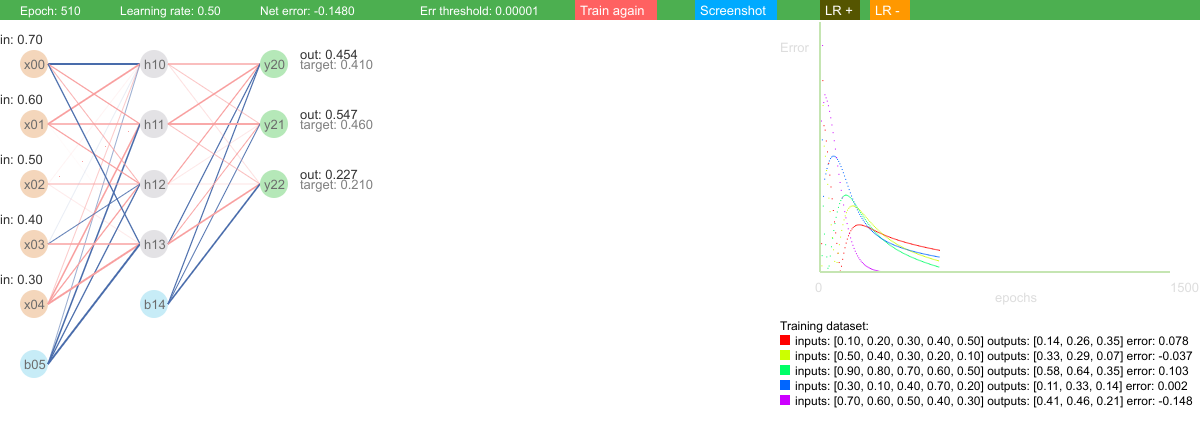
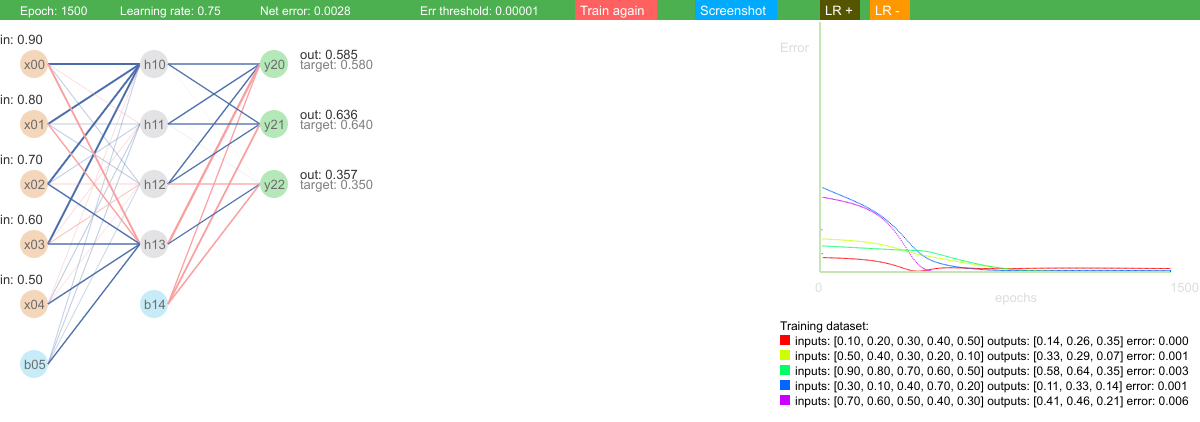
feat(Perceptron) Bugfixing. Regression test added.

diff --git a/tests.js b/tests.js
@@ -23,6 +23,7 @@ function runTests() {
         logResult("Test 7: ForwardPass. TANH", testForwardPassTanh());
         logResult("Test 8: Backpropagation", testBackPropagationComplex());
         logResult("Test 9: Benchmark", testMultiInputOutputBenchmark());
+        logResult("Test 9: Regression", testRegression());
     } catch (error) {
         console.error(error);
         const resultContainer = document.getElementById("test-results");
@@ -91,7 +92,7 @@ function testForwardPassSigmoid() {
     const perceptron = new Perceptron(0.1, 0.001);
 
     perceptron.createLayers([
-        { size: 2 },
+        { size: 2, activation: Cell.LINEAR },
         { size: 1, activation: Cell.SIGMOID }
     ], false);
 
@@ -122,7 +123,7 @@ function testForwardPassRELU() {
     const perceptron = new Perceptron(0.1, 0.001);
 
     perceptron.createLayers([
-        { size: 2 },
+        { size: 2, activation: Cell.LINEAR },
         { size: 1, activation: Cell.RELU }
     ], false);
 
@@ -153,7 +154,7 @@ function testForwardPassLeakyRELU() {
     const perceptron = new Perceptron(0.1, 0.001);
 
     perceptron.createLayers([
-        { size: 2 },
+        { size: 2, activation: Cell.LINEAR },
         { size: 1, activation: Cell.LEAKYRELU }
     ], false);
 
@@ -183,7 +184,7 @@ function testForwardPassTanh() {
     const perceptron = new Perceptron(0.1, 0.001);
 
     perceptron.createLayers([
-        { size: 2 },
+        { size: 2, activation: Cell.LINEAR },
         { size: 1, activation: Cell.TANH }
     ], false);
 
@@ -213,7 +214,7 @@ function testBackPropagationComplex() {
     const perceptron = new Perceptron(0.1, 0.001);
 
     perceptron.createLayers([
-        { size: 3, activation: Cell.SIGMOID },
+        { size: 3, activation: Cell.LINEAR },
         { size: 2, activation: Cell.SIGMOID },
         { size: 1, activation: Cell.LINEAR }
     ], false);
@@ -252,7 +253,7 @@ function testBackPropagationComplex() {
 function testMultiInputOutputBenchmark() {
     console.log("Starting benchmark test with 5 inputs and 3 outputs...");
 
-    // 1. Создание тренировочных данных
+    // 1. Train data
     const trainingData = [
         { inputs: [0.1, 0.2, 0.3, 0.4, 0.5], outputs: [0.14, 0.26, 0.35] },
         { inputs: [0.5, 0.4, 0.3, 0.2, 0.1], outputs: [0.33, 0.29, 0.07] },
@@ -261,17 +262,17 @@ function testMultiInputOutputBenchmark() {
         { inputs: [0.7, 0.6, 0.5, 0.4, 0.3], outputs: [0.41, 0.46, 0.21] }
     ];
 
-    // 2. Настройка сети
+    // 2. Neural Network setup
     const perceptron = new Perceptron(0.1, 0.00001);
     perceptron.createLayers([
-        { size: 5, activation: Cell.SIGMOID },  // Входной слой
-        { size: 9, activation: Cell.SIGMOID },  // Скрытый слой
-        { size: 3, activation: Cell.LINEAR }    // Выходной слой
+        { size: 5, activation: Cell.LINEAR },  // Input layer
+        { size: 9, activation: Cell.SIGMOID },  // Hidden layer
+        { size: 3, activation: Cell.LINEAR }    // Output layer
     ]);
 
-    // 3. Обучение сети
+    // 3. Training
     console.log("Training...");
-    const epochs = 1400;
+    const epochs = 1000;
     for (let epoch = 0; epoch < epochs; epoch++) {
         for (let data of trainingData) {
             perceptron.setInputVector(data.inputs);
@@ -285,7 +286,7 @@ function testMultiInputOutputBenchmark() {
         }
     }
 
-    // 4. Тестирование сети
+    // 4. Testing
     console.log("\nTesting...");
     let allPassed = true;
     for (let data of trainingData) {
@@ -297,7 +298,7 @@ function testMultiInputOutputBenchmark() {
         console.log(`Output: ${outputs.map(o => o.toFixed(3))}`);
         console.log(`Expected: ${data.outputs}`);
 
-        // Проверка точности
+        // Accuracy checking
         const isCloseEnough = outputs.every((output, index) =>
             Math.abs(output - data.outputs[index]) < 0.05
         );
@@ -318,6 +319,80 @@ function testMultiInputOutputBenchmark() {
         return false;
     }
 }
+
+function testRegression() {
+    console.log("Starting regression test with normalized data...");
+
+    // Normalized training data (inputs scaled to [0, 1], targets scaled to [0, 1])
+    const trainingData = [
+        {input: [0], target: [0]},         // input: 0, target: 1
+        {input: [0.25], target: [0.25]},  // input: 1, target: 3
+        {input: [0.5], target: [0.5]},    // input: 2, target: 5
+        {input: [0.75], target: [0.75]},  // input: 3, target: 7
+        {input: [1], target: [1]}         // input: 4, target: 9
+    ];
+
+    // Create perceptron
+    const perceptron = new Perceptron(0.1, 0.0001);
+    perceptron.createLayers([
+        {size: 1, activation: Cell.LINEAR},  // Input layer
+        {size: 3, activation: Cell.RELU},   // Hidden layer
+        {size: 1, activation: Cell.LINEAR}  // Output layer
+    ]);
+
+    // Training
+    console.log("Training...");
+    const epochs = 200;
+    for (let epoch = 0; epoch < epochs; epoch++) {
+        for (let data of trainingData) {
+            perceptron.setInputVector(data.input);
+            perceptron.setOutputVector(data.target);
+            perceptron.forwardPass();
+            perceptron.backPropagation();
+        }
+
+        if (epoch % 100 === 0 || epoch === epochs - 1) {
+            console.log(`Epoch: ${epoch}, Net Error: ${perceptron.getNetError().toFixed(7)}`);
+        }
+    }
+
+    // Testing
+    console.log("\nTesting regression results...");
+    const testData = [
+        {input: [0.125], expected: [0.125]}, // input: 0.5, target: 2.5
+        {input: [0.375], expected: [0.375]}, // input: 1.5, target: 4.5
+        {input: [0.625], expected: [0.625]}, // input: 2.5, target: 6.5
+        {input: [0.875], expected: [0.875]}  // input: 3.5, target: 8.5
+    ];
+
+    let allPassed = true;
+    for (let data of testData) {
+        perceptron.setInputVector(data.input);
+        perceptron.forwardPass();
+        const output = perceptron.getOutputVector();
+
+        console.log(`Input: ${data.input}`);
+        console.log(`Output: ${output.map(o => o.toFixed(3))}`);
+        console.log(`Expected: ${data.expected}`);
+
+        const isCloseEnough = Math.abs(output[0] - data.expected[0]) < 0.05;
+        if (!isCloseEnough) {
+            allPassed = false;
+            console.warn(`Test failed for input: ${data.input}`);
+        } else {
+            console.info(`Test successful for input: ${data.input}`);
+        }
+    }
+
+    if (allPassed) {
+        console.log("Regression test with normalized data passed!");
+        return true;
+    } else {
+        console.error("Regression test with normalized data failed.");
+        return false;
+    }
+}
+
 
 
 window.onload = runTests;

diff --git a/main.js b/main.js
@@ -50,7 +50,7 @@ function restart() {
     perceptron = new Perceptron(learningRate, 0.00001);
 
     perceptron.createLayers([
-        { size: 5, activation: Cell.SIGMOID },
+        { size: 5, activation: Cell.LINEAR },
         { size: 4, activation: Cell.SIGMOID },
         { size: 3, activation: Cell.LINEAR },
     ]);
@@ -193,7 +193,7 @@ function drawBackground() {
 
     ctx.fillStyle = "white";
     ctx.fillText(`Epoch: ${perceptron.getEpoch()}`, 20, 15);
-    ctx.fillText(`Learning rate: ${perceptron.getLearningRate().toFixed(2)}`, 120, 15); // Отображаем изменённое значение
+    ctx.fillText(`Learning rate: ${perceptron.getLearningRate().toFixed(2)}`, 120, 15);
     ctx.fillText(`Net error: ${perceptron.getNetError().toFixed(4)}`, 260, 15);
     ctx.fillText(`Err threshold: ${perceptron.getErrorTrashold()}`, 420, 15);
 
@@ -215,7 +215,7 @@ function drawGraph(perceptron, color) {
         ctx.fillStyle = color;
         ctx.fillRect(
             GRAPH_X + (currentEpoch / epochs) * GRAPH_WIDTH,
-            GRAPH_Y - Math.abs(perceptron.getNetError()) * 150,
+            GRAPH_Y - Math.abs(perceptron.getNetError()) * 650,
             1,
             1
         );
@@ -247,15 +247,14 @@ function drawNeuralNetwork(perceptron) {
 function drawNeuron(neuron, x, y, neuronPositions) {
     drawNeuronLinks(neuron, x, y, neuronPositions);
 
-    const radius = NEURON_SIZE / 2; // Радиус круга
+    const radius = NEURON_SIZE / 2;
 
-    // Рисуем круг (вместо квадрата)
     ctx.beginPath();
-    ctx.arc(x + radius, y + radius, radius, 0, 2 * Math.PI); // Центр круга и радиус
+    ctx.arc(x + radius, y + radius, radius, 0, 2 * Math.PI); // center of the circle and radius
     ctx.fillStyle = getNeuronColor(neuron);
     ctx.fill();
 
-    // Добавляем подпись ID нейрона
+    // neuron label
     ctx.fillStyle = "#6c6c6c";
     ctx.fillText(neuron.id, x + radius / 2 - 3, y + radius + 5);
 

diff --git a/perceptron.js b/perceptron.js
@@ -267,9 +267,10 @@ class Perceptron
 
 				let rightLinks = this.getNeuronLinks(neuron, 'right');
 
-				if (rightLinks.length === 0) { // если это последний слой, то ошибка вычисляется разницей ожидания и выхода
+
+				if (rightLinks.length === 0) { // for last layer error is the difference between expected output and input
 					neuron.cell.setError(neuron.cell.getTargetOutput() - neuron.cell.getOutput());
-				} else { // если слой скрытый, то ошибка - сумма ошибок правых узлов умноженных на веса.
+				} else { // if the layer is hidden, then the error is the sum of the errors of the right nodes multiplied by the weights.
 					let errorsSum = 0;
 
 					for (let j = 0; j < rightLinks.length; j++) {
@@ -283,7 +284,8 @@ class Perceptron
 				this.updateNeuron(neuron.id, neuron);
 
 				if (li === this.layers.length - 1) {
-					this.totalError += neuron.cell.getError();
+					// this.totalError += neuron.cell.getError();
+					this.totalError += 0.5 * Math.pow(neuron.cell.getTargetOutput() - neuron.cell.getOutput(), 2);
 				}
 			}
 		}

diff --git a/neuron.js b/neuron.js
@@ -60,8 +60,6 @@ class Cell
 	calcOutput(inputSum) {
 		if (this.isBias) {
 			this.setOutput(1);
-		} else if (this.layer === 0) {
-			this.setOutput(inputSum);
 		} else {
 			this.setOutput(this.calcActivation(inputSum));
 		}
